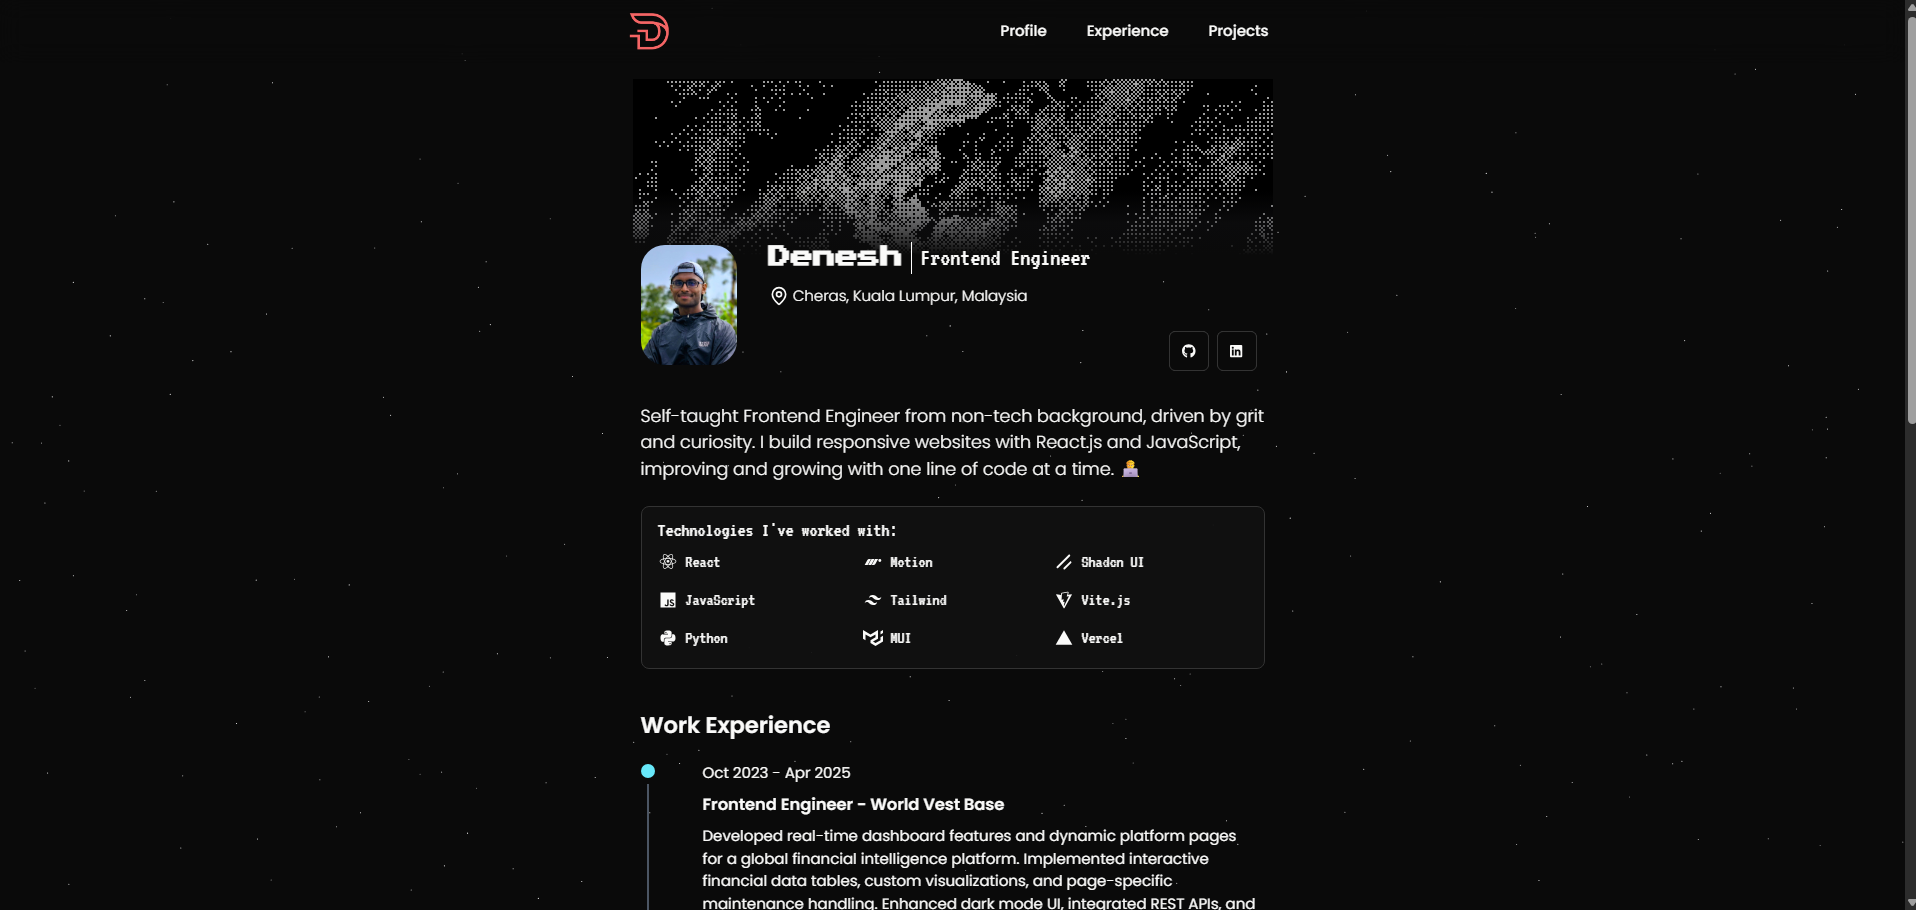
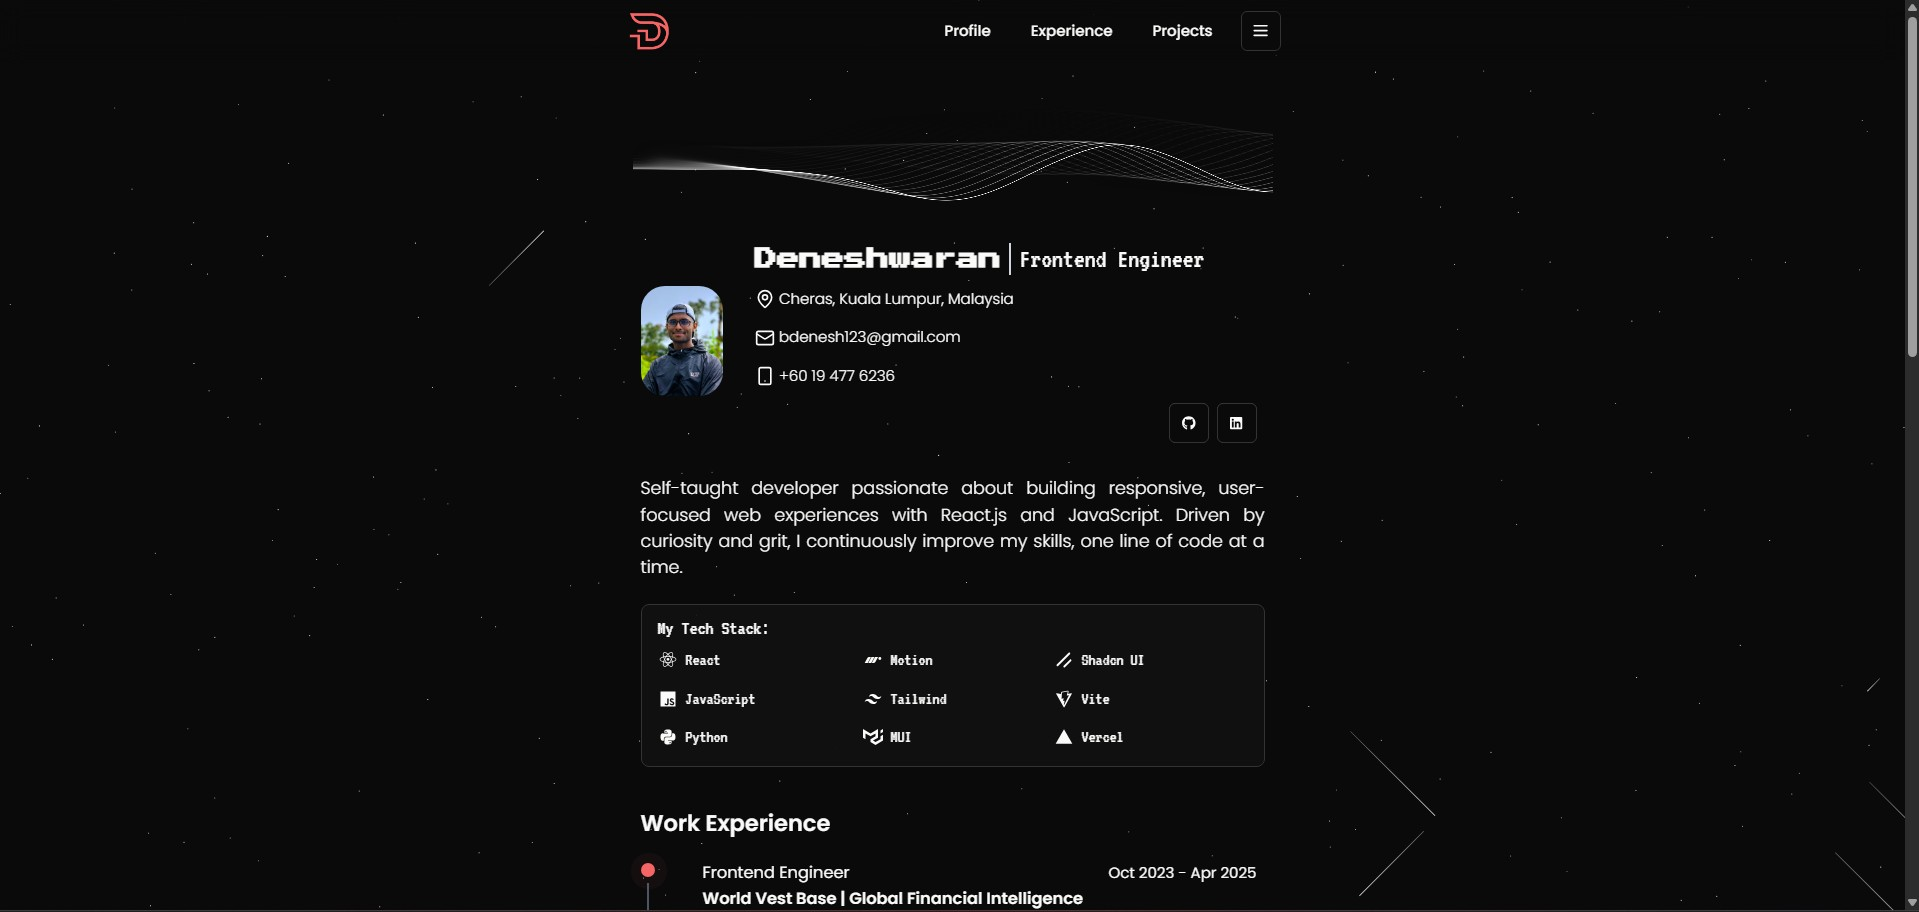
thread line light mode color fix

diff --git a/src/components/sections/Profile.jsx b/src/components/sections/Profile.jsx
@@ -13,10 +13,13 @@ import { transitions } from '@/utils/transitions';
 
 import BottomFadeOverlay from '../common/BottomFadeOverlay';
 import HoverButton from '../common/HoverButton';
+import { useTheme } from '../ThemeProvider';
 import { Separator } from '../ui';
 import Threads from '../ui/Threads';
 
 const Profile = () => {
+  const theme = useTheme;
+
   return (
     <section id='profile' className='scroll-mt-nav'>
       <div id='profile-wrapper' className='relative'>
@@ -34,6 +37,7 @@ const Profile = () => {
         >
           <div>
             <Threads
+              color={theme === 'light' ? [0.91, 0.91, 0.91] : [1, 1, 1]}
               amplitude={2.5}
               distance={0.2}
               enableMouseInteraction={true}
